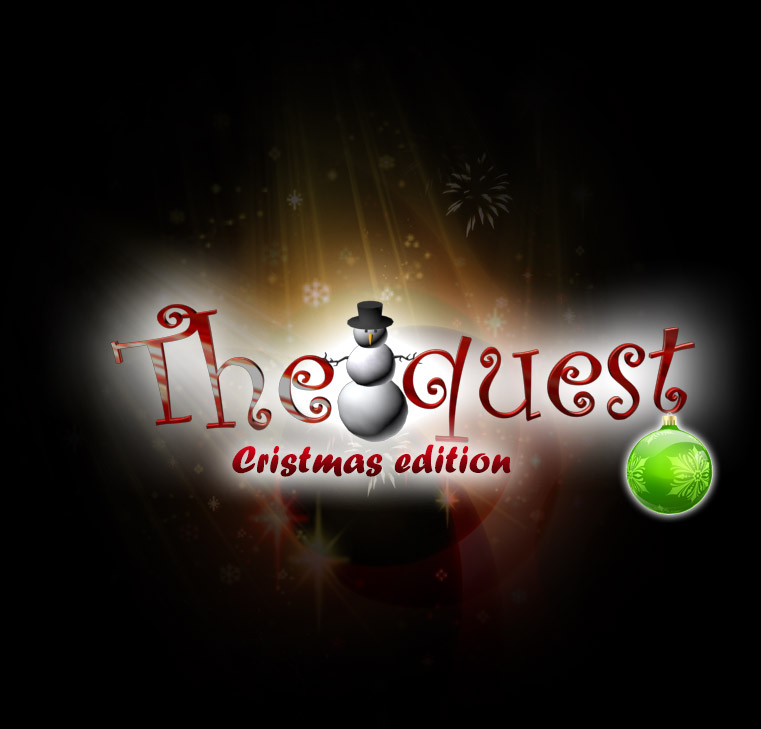
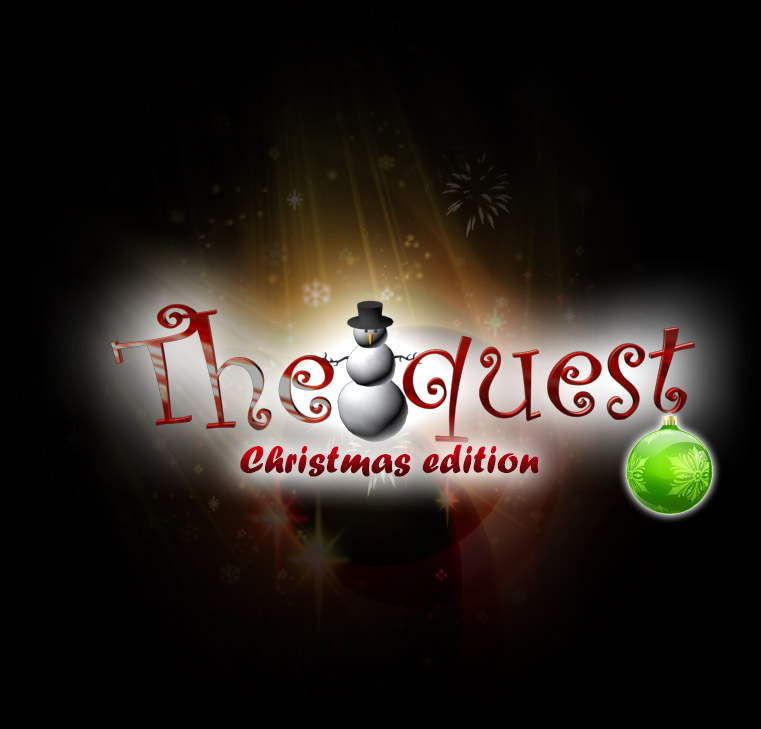
0.0.25 release

Changed region(s): [[0.272, 0.5734, 0.7556, 0.6941]]

diff --git a/public/stylesheets/style.css b/public/stylesheets/style.css
@@ -65,15 +65,16 @@ a {
   z-index: 100;
 }
 
-.support {
-  color: #FFFFFF;
-  top: 600px;
-  left: 270px;
-  margin: 0 auto;
-  position: absolute;
-}
-
 .menuItem {
   float:left;
   width: 100px;
+}
+
+.support {
+  color: #FFFFFF;
+  top: 600px;
+  left: 120px;
+  margin: 0 auto;
+  position: absolute;
+  text-align: center;
 }
